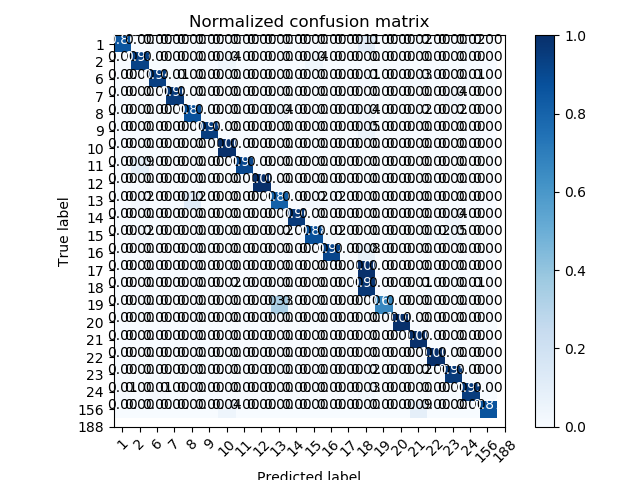
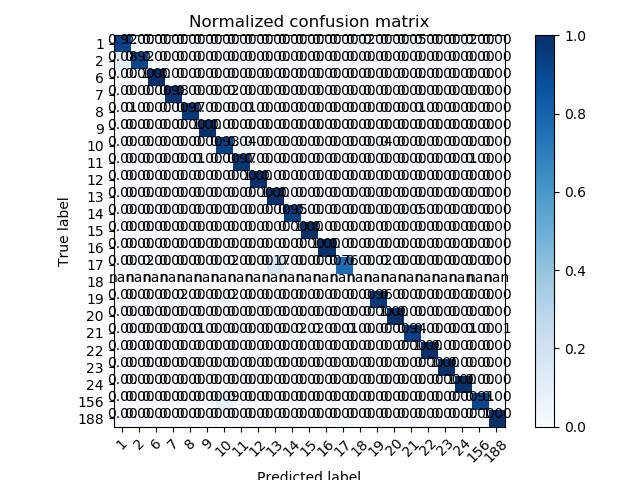
init
editingg

diff --git a/loadModel.py b/loadModel.py
@@ -35,7 +35,9 @@ def plot_confusion_matrix(cm, classes,
     plt.xlabel('Predicted label')
 
 def Draw_ConfusionMatrix(y_valid, y_pred1):
-    cnf_matrix = confusion_matrix(y_valid, y_pred1)
+    cnf_matrix = confusion_matrix(y_valid, y_pred1,
+                                  labels=["1\n","2\n","6\n","7\n","8\n","9\n","10\n","11\n","12\n","13\n","14\n","15\n","16\n","17\n","18\n","19\n","20\n","21\n","22\n","23\n","24\n","156\n","188\n"])
+
     np.set_printoptions(precision=2)
     print('Confusion matrix:')
 
@@ -85,6 +87,7 @@ def Classification():
     vectorizer = CountVectorizer(vocabulary=trainVocab)  # Chuyển X_valid về dạng Array
     transformed_x_valid = vectorizer.fit_transform(X_valid).toarray()
     y_pred1 = clf.predict(transformed_x_valid)
+    print(y_pred1)
     print('Training size = %d, accuracy = %.2f%%' % \
           (len(X_train), accuracy_score(y_valid, y_pred1) * 100))
 
